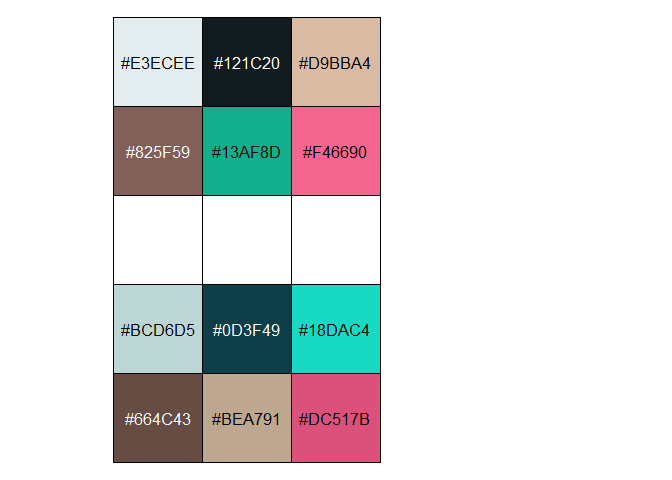
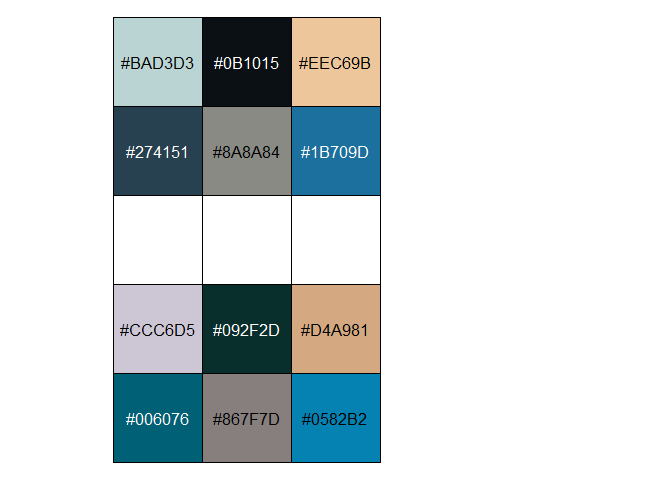
update readme'

diff --git a/README.md b/README.md
@@ -5,9 +5,12 @@
 
 This package provides color palettes based on Sony’s [THE FIRST
 TAKE](https://www.youtube.com/channel/UC9zY_E8mcAo_Oq772LEZq8Q) video
-series. This package is not affiliated with Sony whatsoever.
+series. **This package is not affiliated with Sony whatsoever.**
 
-ftpalsというパッケージのことはソニーやTHE FIRST TAKEに付属していません。
+**ftpalsというパッケージのことはソニーやTHE FIRST
+TAKEに提携していません。**
+
+## Goals
 
 I made this as a side project to learn more about working with colors in
 R. Specifically I wanted to do the following:
@@ -17,8 +20,13 @@ R. Specifically I wanted to do the following:
 -   Try to use clustering as a means to make color palettes
 -   Try to make those color palettes color blind friendly procedurally
 
-The first goal was accomplished via kmeans clustering, the second was
-done by replicating the genetic algortihm implementation in this paper:
+There are packages that provide functionality to create color palettes
+from images already, such as
+[colorfindr](https://github.com/zumbov2/colorfindr) and
+[paletter](https://github.com/AndreaCirilloAC/paletter) but I wanted to
+try something new myself.
+
+I reimplimented the genetic algortihm implementation in this paper:
 
 [Troiano, Luigi & Birtolo, Cosimo & Miranda, Maria. (2008). Adapting
 palettes to color vision deficiencies by genetic algorithm. GECCO’08:
@@ -42,15 +50,17 @@ and the characteristic bar the studio overlays onto each image. That
 said, only videos from THE FIRST TAKE or THE HOME TAKE series were used,
 not THE FIRST TAKE FES.
 
+## Documentation
+
 The source files used for scraping the video metadata are available in
 the `R/` folder and prepended with `scrape_`. The files used to
-implement the genetic algorithm as prepended with `GA_`. Note that these
-aren’t exported by the package though, but they’re available to look at
-or fork. I do provide the `create_palette()` function that will generate
-a new palette for a given YouTube video ID (the part that comes after
-`watch?v=` in the URL). This function isn’t limited to THE FIRST TAKE
-videos, it should work for any YouTube video. This package only needs
-RCurl to download data, it doesn’t use rvest or the YouTube API.
+implement the genetic algorithm are prepended with `GA_`. Note that
+these aren’t exported by the package though, but they’re available to
+look at or fork. I do provide the `create_palette()` function that will
+generate a new palette for a given YouTube video ID (the part that comes
+after `watch?v=` in the URL). This function isn’t limited to THE FIRST
+TAKE videos, it should work for any YouTube video. This package only
+needs RCurl to download data, it doesn’t use rvest or the YouTube API.
 
 I won’t strongly commit to the actual effectiveness of every palette,
 but I think some turned out nice!
@@ -63,10 +73,18 @@ You can install the released version of `ftpals` from github with:
 devtools::install_github("tsostarics/ftpals")
 ```
 
-## Palette Examples
+# Palette Examples
+
+All palettes are provided by the `ftpals::first_takes` table. This
+provides additional metadata such as `videoId`, `artist` name, and
+`song` title. Note that some artist/song names are given in Japanese
+while some are given in Romaji, this is just how the data got scraped.
+It seems like if an English translation is provided for a video, then
+download requests from the United States will pull the translation
+instead of the original Japanese.
 
 `show_pals(i)` will show the two palettes available for a given index in
-the `ftpals::first_takes` table. The original sampling of colors,
+the `first_takes` table. The original sampling of colors,
 `first_takes$palette`, is shown on top, and the “optimized” palette,
 `first_takes$optimized_palette`, is shown on the bottom for comparison.
 The “optimized” palette should be a little better for those with
@@ -89,13 +107,13 @@ palettes with their hex codes.
 ``` r
 library(ftpals)
 library(ggplot2)
-plot_ftpalette(30, show_thumbnail = T, use_theme = ggplot2::theme_minimal)
+plot_ftpalette(91, show_thumbnail = T, use_theme = ggplot2::theme_minimal)
 ```
 
 <img src="man/figures/README-example-1.png" width="100%" />
 
 ``` r
-show_pals(30) # ないものねだり by KANA-BOON X ネクライトーキー
+show_pals(91) # 病身を噛む by ずっと真夜中でいいのに
 ```
 
 <img src="man/figures/README-example-2.png" width="100%" />
